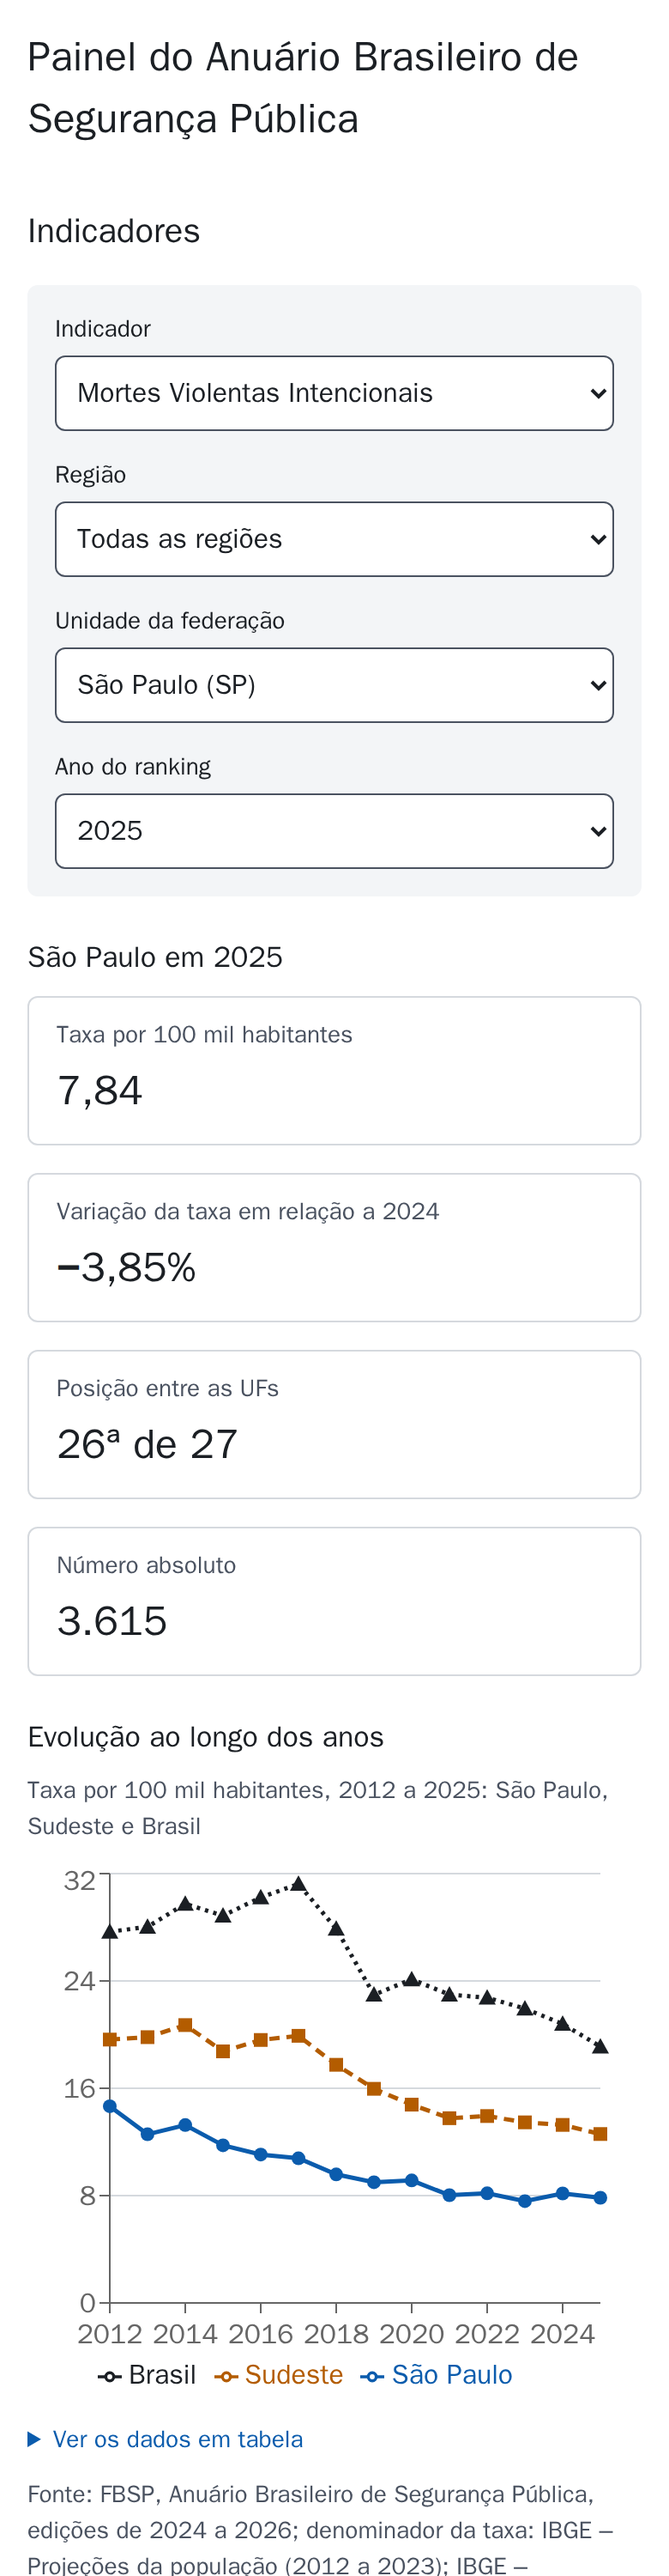
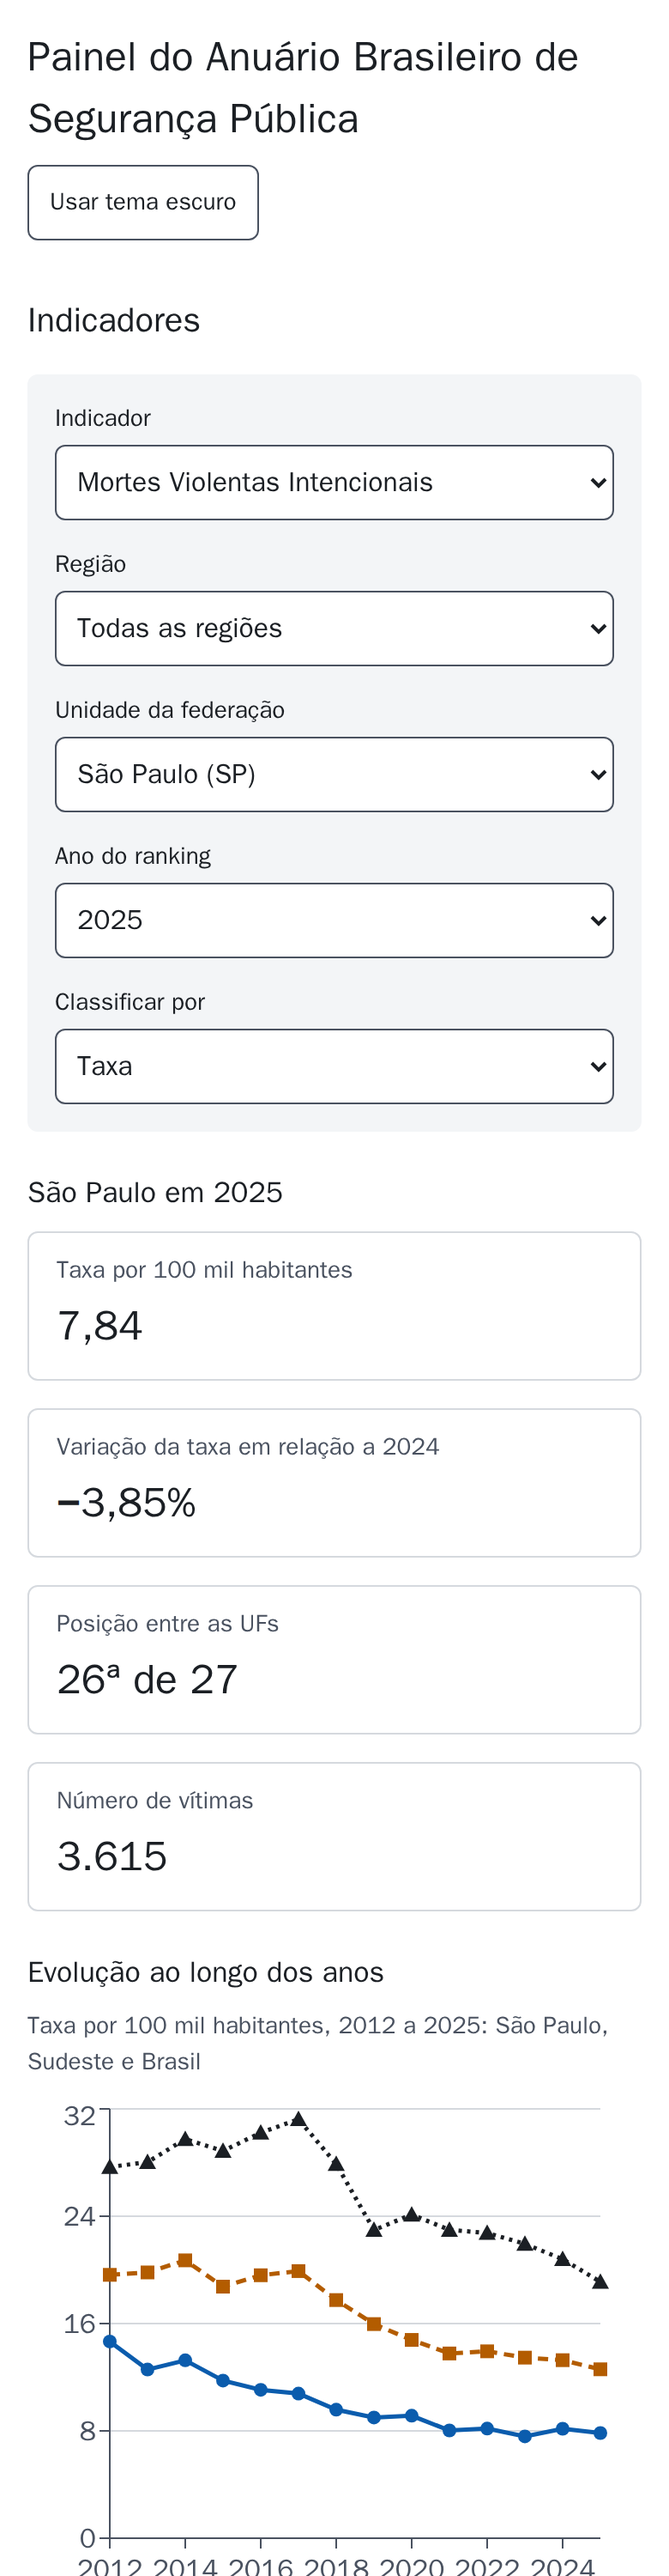
docs: atualiza as capturas e adiciona a do tema escuro

diff --git a/README.md b/README.md
@@ -31,11 +31,16 @@ O painel é uma única página, que consome só a API:
 - **Evolução:** linhas da UF, da sua região e do Brasil, com todos os anos do indicador e os anos revisados pelo FBSP marcados. Com recorte, mostra só a UF ([ADR 0009](docs/adr/0009-variacao-do-brasil-em-recortes.md)).
 - **Comparação entre estados:** barras ordenadas pelo critério escolhido. Clicar em uma barra seleciona a UF.
 - **Mapa:** UFs coloridas em cinco faixas do mesmo critério. Selecione com um clique ou, pelo teclado, com as setas e Enter.
+- **Tema claro e escuro:** segue o sistema até a pessoa escolher pelo botão; a escolha fica salva no navegador.
 - **Dados abertos:** tabelas com os números de cada gráfico, links para baixar em CSV e fontes indicadas em cada bloco.
 
 Com uma região escolhida, o ranking mostra só as UFs dela, com a posição entre as 27, e o mapa esmaece as demais:
 
 ![Painel filtrado pela região Nordeste, com a Bahia selecionada e a série de 2022 a 2025](docs/imagens/painel-filtro-regiao.png)
+
+O tema escuro tem as mesmas informações, com contraste verificado pelo axe-core:
+
+![Painel no tema escuro, com os anos revisados pelo FBSP marcados no gráfico de evolução](docs/imagens/painel-tema-escuro.png)
 
 A página se adapta a telas estreitas:
 
